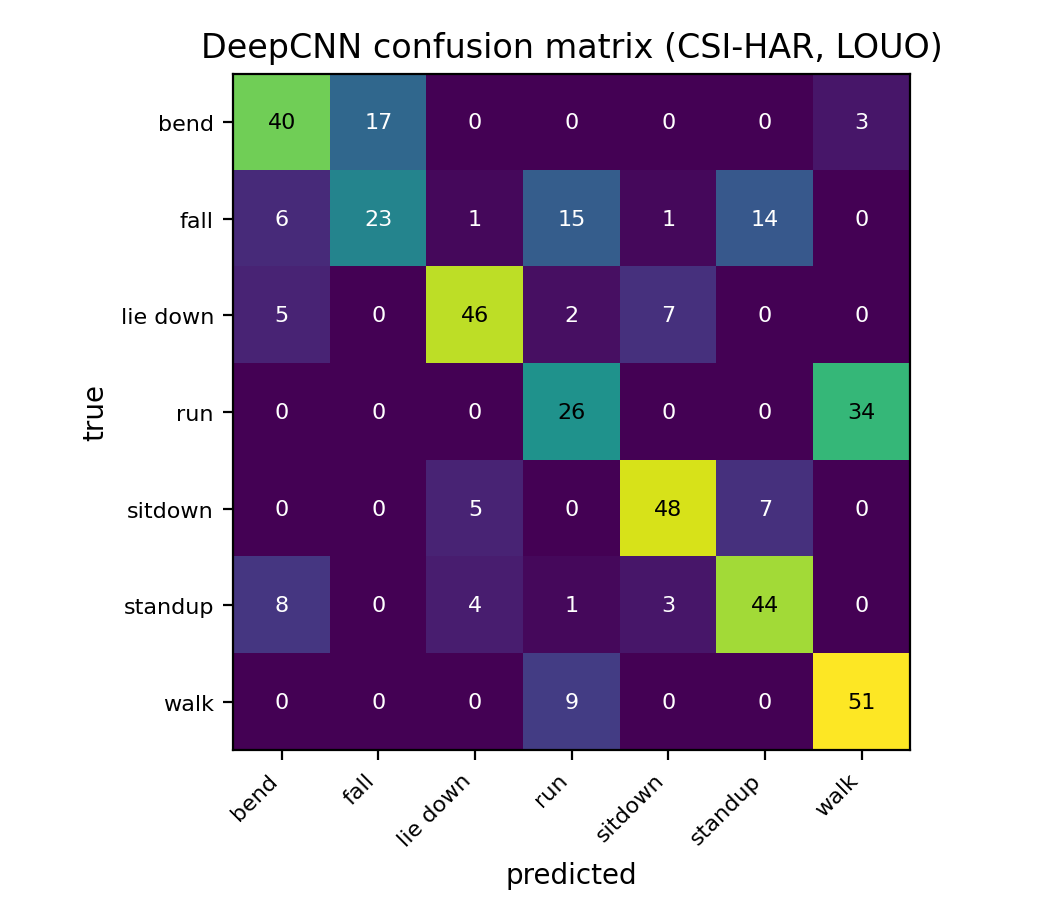
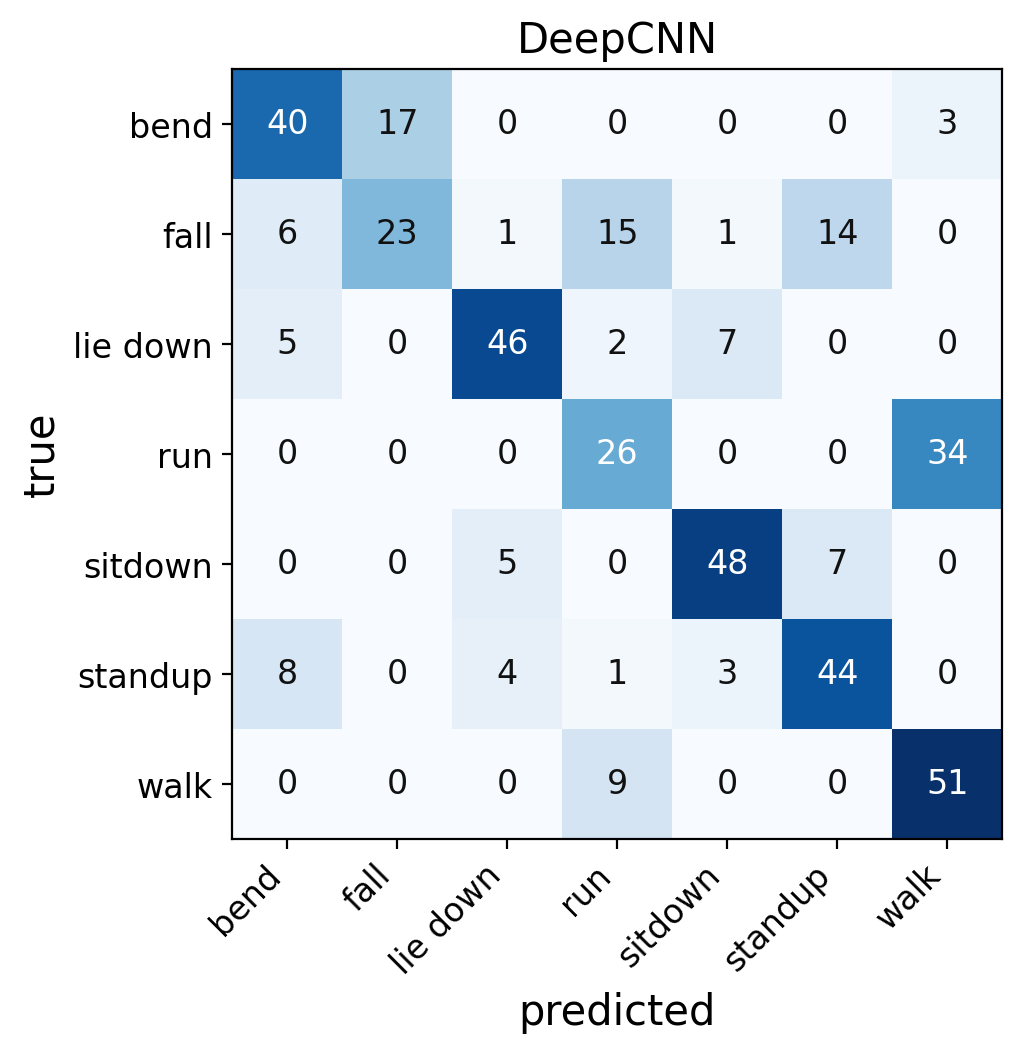
Revision 3 (spec #10): regenerate Figs 4-9 with larger fonts + consistent publication styling (make_figs.py from result CSVs); gengap/frontier reflect the exploratory 3-user + subject-overlapping reframe

diff --git a/manuscript/make_figs.py b/manuscript/make_figs.py
@@ -1,0 +1,122 @@
+#!/usr/bin/env python3
+"""Regenerates the result figures (Figs 4-9) with larger fonts and consistent
+publication styling, from the released result CSVs. Overwrites
+fig_accuracy/frontier/complexity/memory/gengap/personalization/cm_*.png in place."""
+import matplotlib
+matplotlib.use("Agg")
+import matplotlib.pyplot as plt
+import numpy as np, csv, os
+from pathlib import Path
+
+R = Path(os.environ.get("CSI_RESULTS", "frontier_results"))
+OUT = Path(".")
+plt.rcParams.update({
+    "font.size": 15, "axes.titlesize": 16, "axes.labelsize": 15,
+    "xtick.labelsize": 13.5, "ytick.labelsize": 13.5, "legend.fontsize": 13.5,
+    "font.family": "sans-serif", "axes.grid": True, "grid.alpha": 0.3,
+    "figure.dpi": 200, "savefig.dpi": 200, "savefig.bbox": "tight",
+})
+UT, CSI = "#1f77b4", "#d62728"
+
+def rows(f):
+    with open(R/f) as fh: return list(csv.DictReader(fh))
+
+# ---- frontier_tidy: dataset,model,kind,acc,complexity,int8_kb ----
+ft = rows("frontier_tidy.csv")
+def sub(ds, kinds): return [r for r in ft if r["dataset"]==ds and r["kind"] in kinds]
+
+# nice model labels
+LAB={"DecisionTree":"DT","RandomForest":"RF","MLP_stats":"MLP-stat","MLPstats":"MLP-stat",
+     "TinyMLP_nn":"T-MLP","TinyMLP":"T-MLP","TinyCNN8":"CNN8","TinyCNN16":"CNN16","TinyCNN32":"CNN32"}
+def lab(m): return LAB.get(m, m)
+
+# --- fig_accuracy: grouped bars, classical+tiny, UT vs CSI ---
+models=[r["model"] for r in sub("UT-HAR",{"classical","tiny-nn"})]
+acc_ut={r["model"]:float(r["acc"]) for r in sub("UT-HAR",{"classical","tiny-nn"})}
+acc_csi={r["model"]:float(r["acc"]) for r in sub("CSI-HAR",{"classical","tiny-nn"})}
+x=np.arange(len(models)); w=0.38
+fig,ax=plt.subplots(figsize=(8.4,4.6))
+ax.bar(x-w/2,[acc_ut.get(m,0) for m in models],w,label="UT-HAR",color=UT)
+ax.bar(x+w/2,[acc_csi.get(m,0) for m in models],w,label="CSI-HAR (LOUO)",color=CSI)
+ax.set_xticks(x); ax.set_xticklabels([lab(m) for m in models],rotation=30,ha="right")
+ax.set_ylabel("Accuracy (%)"); ax.set_ylim(0,105); ax.legend()
+ax.set_title("Classical and tiny tiers: accuracy by dataset")
+fig.savefig(OUT/"fig_accuracy.png"); plt.close(fig)
+
+# --- fig_frontier: accuracy vs int8 size (tiny nets), log-x ---
+fig,ax=plt.subplots(figsize=(7.6,4.8))
+for ds,c in (("UT-HAR",UT),("CSI-HAR",CSI)):
+    pts=[(float(r["int8_kb"]),float(r["acc"]),lab(r["model"])) for r in sub(ds,{"tiny-nn"}) if r["int8_kb"]]
+    if not pts: continue
+    xs,ys,ls=zip(*pts)
+    ax.scatter(xs,ys,s=90,color=c,label=ds,zorder=3)
+    for xx,yy,ll in pts: ax.annotate(ll,(xx,yy),textcoords="offset points",xytext=(6,4),fontsize=12)
+ax.set_xscale("log"); ax.set_xlabel("int8 model size (kB, log scale)")
+ax.set_ylabel("Accuracy (%)"); ax.legend(); ax.set_title("Accuracy vs int8 size (tiny networks)")
+fig.savefig(OUT/"fig_frontier.png"); plt.close(fig)
+
+# --- fig_complexity: complexity (log) per model, UT tier ---
+comp=[(lab(r["model"]),float(r["complexity"])) for r in sub("UT-HAR",{"classical","tiny-nn"}) if r["complexity"]]
+fig,ax=plt.subplots(figsize=(8.4,4.6))
+ax.bar([m for m,_ in comp],[c for _,c in comp],color="#6a51a3")
+ax.set_yscale("log"); ax.set_ylabel("Complexity (nodes or params, log)")
+ax.set_xticklabels([m for m,_ in comp],rotation=30,ha="right")
+ax.set_title("Model complexity")
+fig.savefig(OUT/"fig_complexity.png"); plt.close(fig)
+
+# --- fig_memory: measured arena vs ~150 kB budget ---
+sm=rows("ondevice/summary_240.csv")  # model,latency_ms,latency_std_ms,arena_kB,energy_mJ
+def clean(m): return m.replace("_"," ").replace("uthar","UT").replace("csihar","CSI")
+mm=[(clean(r["model"]),float(r["arena_kB"])) for r in sm]
+mm.sort(key=lambda t:t[1])
+fig,ax=plt.subplots(figsize=(8.8,5.0))
+ax.barh([m for m,_ in mm],[a for _,a in mm],color="#2f7d32")
+ax.axvline(150,ls="--",color="#b03030",lw=2); ax.text(150,-0.6,"~150 kB budget",color="#b03030",fontsize=12,ha="center")
+ax.set_xlabel("Peak tensor arena (kB)"); ax.set_title("Measured on-device arena vs SRAM budget")
+fig.savefig(OUT/"fig_memory.png"); plt.close(fig)
+
+# --- fig_gengap: random vs LOUO bars + gap ---
+gg=rows("gengap_table.csv")
+gm=[r["Model"] for r in gg]; rnd=[float(r["random_mean"])*100 for r in gg]; lo=[float(r["louo_mean"])*100 for r in gg]
+gap=[float(r["gap_pts"]) for r in gg]
+x=np.arange(len(gm)); w=0.38
+fig,ax=plt.subplots(figsize=(9.0,4.8))
+ax.bar(x-w/2,rnd,w,label="Random (subject-overlapping)",color="#9ecae1")
+ax.bar(x+w/2,lo,w,label="LOUO (subject-independent)",color="#08519c")
+for i,g in enumerate(gap): ax.text(x[i],max(rnd[i],lo[i])+1.5,f"-{g:.0f}",color="#d62728",ha="center",fontsize=12,weight="bold")
+ax.set_xticks(x); ax.set_xticklabels([lab(m) for m in gm],rotation=30,ha="right")
+ax.set_ylabel("Accuracy (%)"); ax.set_ylim(0,105); ax.legend(loc="lower left")
+ax.set_title("Cross-subject gap on CSI-HAR (3 users, exploratory)")
+fig.savefig(OUT/"fig_gengap.png"); plt.close(fig)
+
+# --- fig_personalization: acc vs k, TinyCNN32 + RF, errorbars ---
+pp=rows("personalization/personalization_table.csv")
+k=[int(r["k"]) for r in pp]
+fig,ax=plt.subplots(figsize=(7.6,4.8))
+ax.errorbar(k,[float(r["TinyCNN32"]) for r in pp],yerr=[float(r["TinyCNN32_std"]) for r in pp],
+            marker="o",capsize=4,lw=2,color=UT,label="Tiny CNN (32 ch)")
+ax.errorbar(k,[float(r["RandomForest"]) for r in pp],yerr=[float(r["RandomForest_std"]) for r in pp],
+            marker="s",capsize=4,lw=2,color="#2ca02c",label="Random Forest")
+ax.axhline(100/7,ls=":",color="#888"); ax.text(max(k),100/7+2,"chance",ha="right",fontsize=12,color="#666")
+ax.set_xlabel("Calibration samples from held-out user (k)"); ax.set_ylabel("Accuracy on held-out user (%)")
+ax.legend(); ax.set_title("Per-user calibration recovers accuracy (CSI-HAR)")
+fig.savefig(OUT/"fig_personalization.png"); plt.close(fig)
+
+# --- fig_cm_*: confusion matrices, larger fonts ---
+for name,fn in (("TinyCNN32","cm_TinyCNN32.csv"),("RandomForest","cm_RandomForest.csv"),("DeepCNN","cm_DeepCNN.csv")):
+    rr=rows("metrics/"+fn); acts=list(rr[0].keys())[1:]
+    M=np.array([[int(float(r[a])) for a in acts] for r in rr])
+    fig,ax=plt.subplots(figsize=(5.6,5.0))
+    im=ax.imshow(M,cmap="Blues")
+    ax.set_xticks(range(len(acts))); ax.set_xticklabels(acts,rotation=45,ha="right",fontsize=12)
+    ax.set_yticks(range(len(acts))); ax.set_yticklabels(acts,fontsize=12)
+    thr=M.max()/2
+    for i in range(len(acts)):
+        for j in range(len(acts)):
+            ax.text(j,i,M[i,j],ha="center",va="center",fontsize=12,
+                    color="white" if M[i,j]>thr else "#111")
+    ax.set_title(f"{name}",fontsize=15); ax.set_xlabel("predicted"); ax.set_ylabel("true")
+    ax.grid(False)
+    fig.savefig(OUT/f"fig_cm_{name}.png"); plt.close(fig)
+
+print("regenerated:", *[p.name for p in OUT.glob("fig_*.png")])
